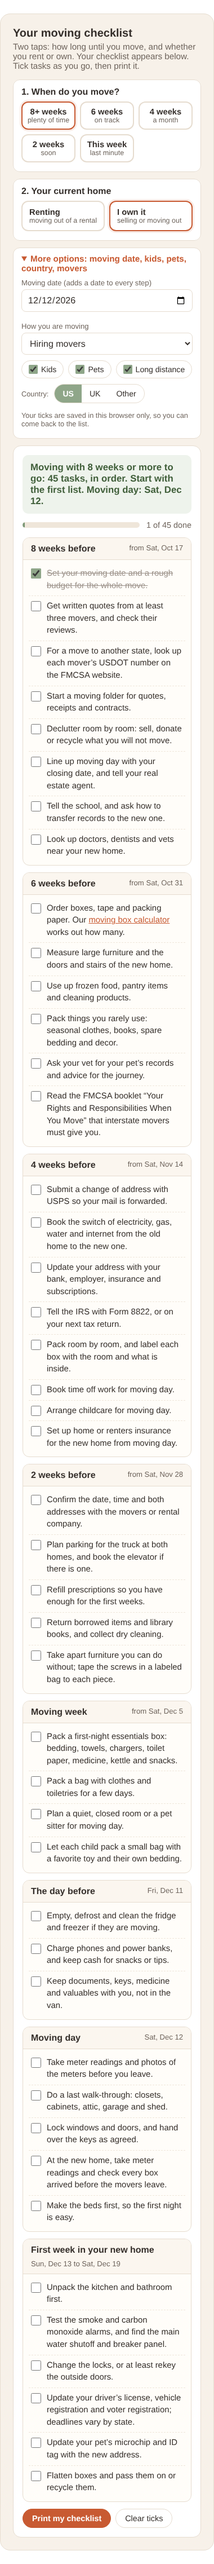
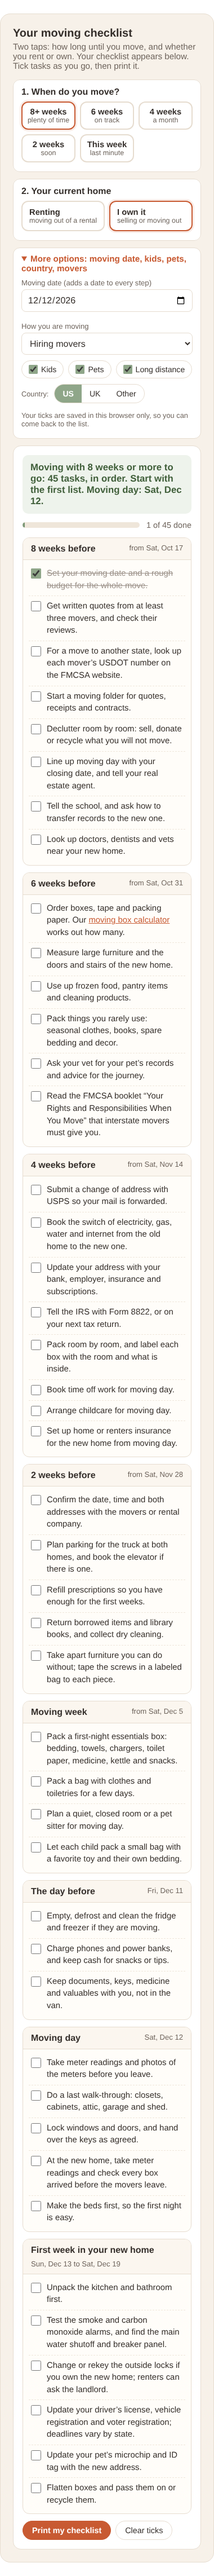
Moving checklist images + embed entry
Claude-Session: https://claude.ai/code/session_01NA5LVV4VZ27gRjP7KysXbg

Changed region(s): [[0.0868, 0.0312, 0.8974, 0.9681]]

diff --git a/tools/embed/out/page-moving-checklist.html b/tools/embed/out/page-moving-checklist.html
@@ -1,0 +1,200 @@
+<!-- wp:html -->
+<style>
+body.dsh-embed{background:#fff!important}
+body.dsh-embed .site-header,body.dsh-embed .site-footer,body.dsh-embed .entry-header,body.dsh-embed .entry-footer,body.dsh-embed .comments-area,body.dsh-embed #kt-scroll-up,body.dsh-embed .kadence-scroll-up,body.dsh-embed .post-navigation{display:none!important}
+body.dsh-embed .content-container,body.dsh-embed .site-container,body.dsh-embed .content-area,body.dsh-embed .content-wrap,body.dsh-embed .entry-content-wrap,body.dsh-embed .site-main,body.dsh-embed article.entry{margin:0!important;padding:0!important;max-width:none!important;box-shadow:none!important;background:transparent!important;border:0!important}
+body.dsh-embed .entry-content{margin:0!important}
+body.dsh-embed .entry-content>*{max-width:none!important}
+body.dsh-embed .dsh-calc{margin:0!important}
+body.dsh-embed .dsh-calc .viz svg{max-height:340px}
+.dsh-ef{display:flex;flex-wrap:wrap;justify-content:space-between;gap:6px 12px;align-items:center;font-size:13px;color:#6E645C;padding:8px 4px 2px;line-height:1.4}
+.dsh-ef a{color:#C85A32;font-weight:700;text-decoration:none}
+.dsh-ef a:hover{text-decoration:underline}
+</style>
+<div id="dsh-ew">
+<div id="dsh-mc" class="dsh-calc">
+<style>
+.dsh-calc{--bg:#F7F1E9;--card:#fff;--ink:#342E2A;--mut:#6E645C;--ac:#C85A32;--sg:#8FA689;--sgl:#EEF3EC;--bd:#E6DCCF;font-family:inherit;color:var(--ink);background:var(--bg);border:1px solid var(--bd);border-radius:18px;padding:22px;margin:1.5em 0}
+.dsh-calc *{box-sizing:border-box}
+.dsh-calc h3{margin:0 0 4px;font-size:1.25rem}
+.dsh-calc .sub{margin:0 0 16px;color:var(--mut);font-size:.95rem}
+.dsh-calc .row{display:flex;flex-wrap:wrap;gap:10px;margin-bottom:14px;align-items:center}
+.dsh-calc .seg{display:inline-flex;border:1px solid var(--bd);border-radius:999px;overflow:hidden;background:var(--card)}
+.dsh-calc .seg button{border:0;background:transparent;padding:8px 14px;font:inherit;font-size:.88rem;cursor:pointer;color:var(--ink)}
+.dsh-calc .seg button.on{background:var(--sg);color:#fff;font-weight:600}
+.dsh-calc .opts{display:grid;grid-template-columns:repeat(auto-fit,minmax(120px,1fr));gap:8px;margin:0 0 10px}
+.dsh-calc .opts.hts{grid-template-columns:repeat(auto-fit,minmax(92px,1fr))}
+.dsh-calc .opts.hts button{text-align:center;padding:8px 6px}
+.dsh-calc .opts button{background:var(--card);border:2px solid var(--bd);border-radius:12px;padding:10px 12px;text-align:left;font:inherit;cursor:pointer;color:var(--ink)}
+.dsh-calc .opts button b{display:block;font-size:.92rem}
+.dsh-calc .opts button span{font-size:.78rem;color:var(--mut)}
+.dsh-calc .opts button.on{border-color:var(--ac);box-shadow:0 0 0 3px rgba(200,90,50,.12)}
+.dsh-calc fieldset{border:1px solid var(--bd);border-radius:12px;background:var(--card);padding:12px 14px 6px;margin:0 0 12px}
+.dsh-calc legend{float:left;width:100%;font-weight:700;font-size:1rem;padding:0;margin:0 0 8px}
+.dsh-calc legend+*{clear:both}
+.dsh-calc .grid{display:grid;grid-template-columns:repeat(auto-fit,minmax(170px,1fr));gap:10px}
+.dsh-calc label{display:block;font-size:.82rem;color:var(--mut);margin-bottom:8px}
+.dsh-calc input[type=date],.dsh-calc select{display:block;width:100%;margin-top:4px;padding:9px 10px;font:inherit;font-size:1rem;border:1px solid var(--bd);border-radius:8px;background:#fff;color:var(--ink)}
+.dsh-calc .ck{display:flex;flex-wrap:wrap;gap:8px;margin:2px 0 10px}
+.dsh-calc .ck label{display:inline-flex;align-items:center;gap:6px;margin:0;padding:7px 12px;border:1px solid var(--bd);border-radius:999px;background:#fff;color:var(--ink);font-size:.88rem;cursor:pointer}
+.dsh-calc .ck input{accent-color:#8FA689;width:16px;height:16px;margin:0}
+.dsh-calc .hint{font-size:.8rem;color:var(--mut);margin:0 0 8px}
+.dsh-calc details.more{border:1px solid var(--bd);border-radius:12px;background:var(--card);padding:10px 14px;margin:0 0 12px}
+.dsh-calc details.more summary{cursor:pointer;font-weight:600;font-size:.95rem;color:var(--ac)}
+.dsh-calc details.more[open] summary{margin-bottom:10px}
+.dsh-calc .res{background:var(--card);border:1px solid var(--bd);border-radius:14px;padding:16px;margin-top:6px}
+.dsh-calc .verdict{font-size:1.05rem;font-weight:700;padding:12px 14px;border-radius:10px;margin-bottom:12px;background:var(--sgl);color:#3F5E39}
+.dsh-calc .prog{display:flex;align-items:center;gap:12px;margin:0 0 14px;font-size:.9rem;color:var(--mut)}
+.dsh-calc .bar{flex:1;height:10px;border-radius:99px;background:#EFE6DA;overflow:hidden}
+.dsh-calc .bar i{display:block;height:100%;width:0;background:linear-gradient(90deg,#8FA689,#6F8F69);border-radius:99px;transition:width .3s}
+.dsh-calc .stg{border:1px solid var(--bd);border-radius:12px;margin:0 0 12px;overflow:hidden;background:#FFFDF9}
+.dsh-calc .stg h4{margin:0;padding:10px 14px;font-size:1rem;background:#FBF6EF;border-bottom:1px solid var(--bd);display:flex;justify-content:space-between;gap:8px;flex-wrap:wrap}
+.dsh-calc .stg h4 small{font-weight:400;color:var(--mut);font-size:.82rem}
+.dsh-calc .stg.now h4{background:#FFF1EA;color:#9A3F1F}
+.dsh-calc .stg ul{list-style:none;margin:0;padding:6px 10px}
+.dsh-calc .stg li{margin:0;padding:0}
+.dsh-calc .stg li label{display:flex;gap:10px;align-items:flex-start;margin:0;padding:7px 4px;font-size:.93rem;color:var(--ink);cursor:pointer;line-height:1.45;border-bottom:1px dashed #EFE6DA}
+.dsh-calc .stg li:last-child label{border-bottom:0}
+.dsh-calc .stg li input{flex:0 0 auto;width:18px;height:18px;margin:2px 0 0;accent-color:#8FA689}
+.dsh-calc .stg li.done span{color:#9A9088;text-decoration:line-through}
+.dsh-calc .stg li a{color:var(--ac)}
+.dsh-calc .acts{display:flex;flex-wrap:wrap;gap:8px;margin-top:12px}
+.dsh-calc .acts button,.dsh-calc .acts a{border:1px solid var(--bd);background:#fff;border-radius:999px;padding:8px 16px;font:inherit;font-size:.9rem;cursor:pointer;color:var(--ink);text-decoration:none}
+.dsh-calc .acts .pri{background:var(--ac);border-color:var(--ac);color:#fff;font-weight:600}
+@media print{body *{visibility:hidden}#dsh-mc,#dsh-mc *{visibility:visible}#dsh-mc{position:absolute;left:0;top:0;width:100%;border:0;background:#fff;padding:0;margin:0}#dsh-mc .np{display:none!important}#dsh-mc .stg{break-inside:avoid}#dsh-mc .res{border:0;padding:0}}
+</style>
+<h3>Your moving checklist</h3>
+<p class="sub np">Two taps: how long until you move, and whether you rent or own. Your checklist appears below. Tick tasks as you go, then print it.</p>
+<fieldset class="np"><legend>1. When do you move?</legend>
+<div class="opts hts" role="group" aria-label="Time until moving day">
+<button type="button" data-t="8" class="on"><b>8+ weeks</b><span>plenty of time</span></button>
+<button type="button" data-t="6"><b>6 weeks</b><span>on track</span></button>
+<button type="button" data-t="4"><b>4 weeks</b><span>a month</span></button>
+<button type="button" data-t="2"><b>2 weeks</b><span>soon</span></button>
+<button type="button" data-t="1"><b>This week</b><span>last minute</span></button>
+</div>
+</fieldset>
+<fieldset class="np"><legend>2. Your current home</legend>
+<div class="opts" role="group" aria-label="Home">
+<button type="button" data-h="r" class="on"><b>Renting</b><span>moving out of a rental</span></button>
+<button type="button" data-h="o"><b>I own it</b><span>selling or moving out</span></button>
+</div>
+</fieldset>
+<details class="more np"><summary>More options: moving date, kids, pets, country, movers</summary>
+<div class="grid">
+<label><span>Moving date (adds a date to every step)</span><input type="date" id="md"></label>
+<label><span>How you are moving</span><select id="mv"><option value="m" selected>Hiring movers</option><option value="v">Renting a van or truck</option><option value="v2">Friends and our own car</option></select></label>
+</div>
+<div class="ck"><label><input type="checkbox" id="ok"> Kids</label><label><input type="checkbox" id="op"> Pets</label><label><input type="checkbox" id="of"> Long distance</label></div>
+<div class="row"><span class="hint" style="margin:0">Country:</span><div class="seg" role="group" aria-label="Country"><button type="button" data-c="us">US</button><button type="button" data-c="uk">UK</button><button type="button" data-c="ot">Other</button></div></div>
+<p class="hint">Your ticks are saved in this browser only, so you can come back to the list.</p>
+</details>
+<div class="res" aria-live="polite">
+<div id="vv" class="verdict"></div>
+<div class="prog"><div class="bar"><i id="pb"></i></div><span id="pt"></span></div>
+<div id="ls"></div>
+<div class="acts np"><button type="button" id="pr" class="pri">Print my checklist</button><a id="pdf" href="#" target="_blank" rel="noopener">Download the PDF</a><button type="button" id="cl">Clear ticks</button></div>
+</div>
+<script>
+(function(){
+var R=document.getElementById('dsh-mc');if(!R)return;
+var PDF='https://dailyspacehacks.com/wp-content/uploads/2026/10/moving-checklist-printable.pdf';
+var t=8,h='r',ct='us',done={};
+try{done=JSON.parse(localStorage.getItem('dshMoveDone')||'{}')||{}}catch(e){done={}}
+var ST=[['s8','8 weeks before',-56],['s6','6 weeks before',-42],['s4','4 weeks before',-28],['s2','2 weeks before',-14],['s1','Moving week',-7],['d1','The day before',-1],['d0','Moving day',0],['a1','First week in your new home',1]];
+var W={s8:8,s6:6,s4:4,s2:2};
+var T=[
+['a','s8','','Set your moving date and a rough budget for the whole move.'],
+['b','s8','m','Get written quotes from at least three movers, and check their reviews.'],
+['c','s8','mf',{us:'For a move to another state, look up each mover’s USDOT number on the FMCSA website.',uk:'Check that the removal firm has insurance for your belongings in transit.',ot:'Check that the movers are licensed and insured.'}],
+['d','s8','v','Book the van or truck, and ask friends to keep the day free.'],
+['e','s8','','Start a moving folder for quotes, receipts and contracts.'],
+['f','s8','x','Declutter room by room: sell, donate or recycle what you will not move.'],
+['g','s8','r','Read your lease for the notice period and deposit rules, then give notice in writing.'],
+['h','s8','o',{us:'Line up moving day with your closing date, and tell your real estate agent.',uk:'Line up moving day with your completion date, and tell your solicitor or conveyancer.',ot:'Line up moving day with the sale or handover date.'}],
+['i','s8','k','Tell the school, and ask how to transfer records to the new one.'],
+['j','s8','f','Look up doctors, dentists and vets near your new home.'],
+['k','s6','','Order boxes, tape and packing paper. Our <a href="https://dailyspacehacks.com/moving-box-calculator/">moving box calculator</a> works out how many.'],
+['l','s6','','Measure large furniture and the doors and stairs of the new home.'],
+['m','s6','x','Use up frozen food, pantry items and cleaning products.'],
+['n','s6','','Pack things you rarely use: seasonal clothes, books, spare bedding and decor.'],
+['o','s6','p','Ask your vet for your pet’s records and advice for the journey.'],
+['p','s6','mf',{us:'Read the FMCSA booklet “Your Rights and Responsibilities When You Move” that interstate movers must give you.'}],
+['q','s4','',{us:'Submit a change of address with USPS so your mail is forwarded.',uk:'Set up Royal Mail Redirection so your post follows you.',ot:'Set up mail forwarding with your postal service.'}],
+['r','s4','','Book the switch of electricity, gas, water and internet from the old home to the new one.'],
+['s','s4','','Update your address with your bank, employer, insurance and subscriptions.'],
+['t','s4','',{us:'Tell the IRS with Form 8822, or on your next tax return.',uk:'Tell your council you are moving, for council tax, and contact the new council once you move in.'}],
+['u','s4','','Pack room by room, and label each box with the room and what is inside.'],
+['v','s4','','Book time off work for moving day.'],
+['w','s4','k','Arrange childcare for moving day.'],
+['x','s4','',{us:'Set up home or renters insurance for the new home from moving day.',uk:'Set up contents insurance for the new home from moving day.',ot:'Set up insurance for the new home from moving day.'}],
+['y','s2','','Confirm the date, time and both addresses with the movers or rental company.'],
+['z','s2','',{us:'Plan parking for the truck at both homes, and book the elevator if there is one.',uk:'Plan parking for the van at both homes; some councils need a parking suspension.',ot:'Plan parking for the van or truck at both homes.'}],
+['A','s2','','Refill prescriptions so you have enough for the first weeks.'],
+['B','s2','x','Return borrowed items and library books, and collect dry cleaning.'],
+['C','s2','','Take apart furniture you can do without; tape the screws in a labeled bag to each piece.'],
+['D','s1','','Pack a first-night essentials box: bedding, towels, chargers, toilet paper, medicine, kettle and snacks.'],
+['E','s1','','Pack a bag with clothes and toiletries for a few days.'],
+['F','s1','r','Clean as you go, or book an end-of-tenancy clean, so you get your deposit back.'],
+['G','s1','p','Plan a quiet, closed room or a pet sitter for moving day.'],
+['H','s1','k','Let each child pack a small bag with a favorite toy and their own bedding.'],
+['I','d1','','Empty, defrost and clean the fridge and freezer if they are moving.'],
+['J','d1','','Charge phones and power banks, and keep cash for snacks or tips.'],
+['K','d1','','Keep documents, keys, medicine and valuables with you, not in the van.'],
+['L','d0','','Take meter readings and photos of the meters before you leave.'],
+['M','d0','r','Photograph every room after cleaning, as proof for your deposit.'],
+['N','d0','',{us:'Do a last walk-through: closets, cabinets, attic, garage and shed.',uk:'Do a last walk-through: cupboards, loft, garage and shed.',ot:'Do a last walk-through: cupboards, attic, garage and shed.'}],
+['O','d0','','Lock windows and doors, and hand over the keys as agreed.'],
+['P','d0','','At the new home, take meter readings and check every box arrived before the movers leave.'],
+['Q','d0','','Make the beds first, so the first night is easy.'],
+['R','a1','','Unpack the kitchen and bathroom first.'],
+['S','a1','',{us:'Test the smoke and carbon monoxide alarms, and find the main water shutoff and breaker panel.',uk:'Test the smoke and carbon monoxide alarms, and find the stopcock and fuse box.',ot:'Test the smoke alarms, and find the main water valve and fuse box.'}],
+['U','a1','','Change or rekey the outside locks if you own the new home; renters can ask the landlord.'],
+['V','a1','',{us:'Update your driver’s license, vehicle registration and voter registration; deadlines vary by state.',uk:'Update your driving licence with DVLA (it is free), tell HMRC, register to vote and sign up with a local GP.',ot:'Update your driving licence and register to vote at the new address.'}],
+['W','a1','p','Update your pet’s microchip and ID tag with the new address.'],
+['X','a1','r','Chase your deposit if it has not come back.'],
+['Y','a1','x','Flatten boxes and pass them on or recycle them.']];
+function $(i){return document.getElementById(i)}
+function ok(tags){var mv=$('mv').value;for(var i=0;i<tags.length;i++){var g=tags.charAt(i);
+if(g==='r'?h!=='r':false)return false;if(g==='o'?h!=='o':false)return false;
+if(g==='k'?!$('ok').checked:false)return false;if(g==='p'?!$('op').checked:false)return false;
+if(g==='f'?!$('of').checked:false)return false;if(g==='m'?mv!=='m':false)return false;if(g==='v'?mv==='m':false)return false}return true}
+function txt(x){if(typeof x==='string')return x;return x[ct]||''}
+function mdate(){var v=$('md').value;if(!v)return null;var p=v.split('-');return new Date(+p[0],+p[1]-1,+p[2])}
+function fd(d){try{return d.toLocaleDateString(ct==='us'?'en-US':'en-GB',{weekday:'short',day:'numeric',month:'short'})}catch(e){return d.toDateString()}}
+function addD(d,n){var x=new Date(d.getTime());x.setDate(x.getDate()+n);return x}
+function snap(){var d=mdate();if(!d)return;var now=new Date();now.setHours(0,0,0,0);var w=(d-now)/864e5/7;t=w>=8?8:(w>=6?6:(w>=4?4:(w>=2?2:1)));R.querySelectorAll('[data-t]').forEach(function(x){x.classList.toggle('on',+x.getAttribute('data-t')===t)})}
+function render(){var d=mdate(),groups=[],late=[],total=0,n=0;
+ST.forEach(function(s){var items=[];T.forEach(function(k){if(k[1]!==s[0])return;if(!ok(k[2]))return;var x=txt(k[3]);if(!x)return;items.push([k[0],x,k[2].indexOf('x')>-1])});
+var isLate=W[s[0]]?W[s[0]]>t:false;
+if(isLate){items.forEach(function(it){if(!it[2])late.push(it)})}else{groups.push([s,items])}});
+var html='';
+function block(title,note,items,cls){if(!items.length)return '';var s='<div class="stg'+(cls?' '+cls:'')+'"><h4><span>'+title+'</span><small>'+note+'</small></h4><ul>';items.forEach(function(it){total++;var on=done[it[0]]?1:0;if(on)n++;s+='<li'+(on?' class="done"':'')+'><label><input type="checkbox" data-id="'+it[0]+'"'+(on?' checked':'')+'><span>'+it[1]+'</span></label></li>'});return s+'</ul></div>'}
+if(late.length){html+=block('Start now: catch up',(d?fd(new Date())+' onward':'this week'),late,'now')}
+groups.forEach(function(g){var s=g[0],note='';if(d){if(s[0]==='a1'){note=fd(addD(d,1))+' to '+fd(addD(d,7))}else if(s[0]==='d0'||s[0]==='d1'){note=fd(addD(d,s[2]))}else{note='from '+fd(addD(d,s[2]))}}else{note=g[1].length+' tasks'}html+=block(s[1],note,g[1])});
+$('ls').innerHTML=html;
+var mv={8:'with 8 weeks or more to go',6:'with about 6 weeks to go',4:'with about 4 weeks to go',2:'with about 2 weeks to go',1:'this week'}[t];
+$('vv').textContent=(late.length?'Moving '+mv+': start with the '+late.length+' catch-up tasks at the top, then follow the list.':'Moving '+mv+': '+total+' tasks, in order. Start with the first list.')+(d?' Moving day: '+fd(d)+'.':'');
+prog();
+R.querySelectorAll('[data-id]').forEach(function(c){c.addEventListener('change',function(){var id=c.getAttribute('data-id');if(c.checked){done[id]=1}else{delete done[id]}c.parentNode.parentNode.classList.toggle('done',c.checked);save();prog()})})}
+function prog(){var all=R.querySelectorAll('[data-id]'),k=0;all.forEach(function(c){if(c.checked)k++});$('pb').style.width=(all.length?Math.round(k*100/all.length):0)+'%';$('pt').textContent=k+' of '+all.length+' done'}
+function save(){try{localStorage.setItem('dshMoveDone',JSON.stringify(done))}catch(e){}}
+R.querySelectorAll('[data-t]').forEach(function(x){x.addEventListener('click',function(){t=+x.getAttribute('data-t');R.querySelectorAll('[data-t]').forEach(function(y){y.classList.toggle('on',y===x)});render()})});
+R.querySelectorAll('[data-h]').forEach(function(x){x.addEventListener('click',function(){h=x.getAttribute('data-h');R.querySelectorAll('[data-h]').forEach(function(y){y.classList.toggle('on',y===x)});render()})});
+R.querySelectorAll('[data-c]').forEach(function(x){x.addEventListener('click',function(){ct=x.getAttribute('data-c');R.querySelectorAll('[data-c]').forEach(function(y){y.classList.toggle('on',y===x)});render()})});
+$('md').addEventListener('change',function(){snap();render()});
+['mv','ok','op','of'].forEach(function(i){$(i).addEventListener('change',render)});
+$('pr').addEventListener('click',function(){window.print()});
+$('cl').addEventListener('click',function(){done={};save();render()});
+var a=$('pdf');if(PDF){a.href=PDF}else{a.style.display='none'}
+var lang=(navigator.language||'en-US');
+ct=(lang.indexOf('en-GB')===0||lang.indexOf('en-IE')===0)?'uk':((lang==='en'||lang.indexOf('en-US')===0)?'us':'ot');
+R.querySelectorAll('[data-c]').forEach(function(y){y.classList.toggle('on',y.getAttribute('data-c')===ct)});
+render();
+})();
+</script>
+</div>
+<div class="dsh-ef"><span>Free tool by <a href="https://dailyspacehacks.com/?utm_source=embed&amp;utm_medium=referral" target="_blank" rel="noopener">Daily Space Hacks</a></span><a href="https://dailyspacehacks.com/moving-checklist-printable/?utm_source=embed&amp;utm_medium=referral" target="_blank" rel="noopener">Full guide and charts &rarr;</a></div>
+</div>
+<script>(function(){var w=document.getElementById('dsh-ew'),last=0;function s(){if(!w)return;var h=Math.ceil(w.getBoundingClientRect().height)+4;if(h!==last){last=h;try{parent.postMessage({dshEmbed:1,h:h},'*')}catch(e){}}}if(window.ResizeObserver){new ResizeObserver(s).observe(w)}window.addEventListener('load',s);setInterval(s,1000);s()})();</script>
+<!-- /wp:html -->

diff --git a/tools/embed/out/hub.html b/tools/embed/out/hub.html
@@ -27,6 +27,20 @@
 <!-- /wp:heading -->
 
 <!-- wp:heading {"level":3} -->
+<h3 class="wp-block-heading">Printable Moving Checklist</h3>
+<!-- /wp:heading -->
+
+<!-- wp:paragraph -->
+<p>A week-by-week moving checklist that readers can tick off and print. <a href="https://dailyspacehacks.com/moving-checklist-printable/">Try the printable moving checklist</a>.</p>
+<!-- /wp:paragraph -->
+
+<!-- wp:html -->
+<div class="dsh-emb"><details><summary><span class="eic" aria-hidden="true">&lt;/&gt;</span><span class="etx"><b>Embed this checklist</b><small>Free for your blog or website</small></span><span class="ech" aria-hidden="true"></span></summary><div class="ebd"><p>Copy the code and paste it into an HTML block on your site. It is free to use; please keep the credit link under the checklist.</p><pre><code>&lt;iframe class="dsh-embed" src="https://dailyspacehacks.com/embed-calculators/moving-checklist/" title="Printable Moving Checklist" width="100%" height="2400" style="border:0;width:100%;max-width:760px;display:block" loading="lazy"&gt;&lt;/iframe&gt;
+&lt;p style="font-size:13px;margin:6px 0 0"&gt;&lt;a href="https://dailyspacehacks.com/moving-checklist-printable/"&gt;Printable Moving Checklist&lt;/a&gt; by Daily Space Hacks&lt;/p&gt;
+&lt;script&gt;window.addEventListener('message',function(e){if(e.origin!=='https://dailyspacehacks.com'||!e.data||!e.data.dshEmbed)return;document.querySelectorAll('iframe.dsh-embed').forEach(function(f){if(f.contentWindow===e.source)f.style.height=e.data.h+'px'})});&lt;/script&gt;</code></pre><div class="eac"><button type="button" class="ecp" onclick="var c=this.parentNode.parentNode.querySelector('code'),b=this,d=function(){b.textContent='Copied';b.classList.add('ok');setTimeout(function(){b.textContent='Copy code';b.classList.remove('ok')},2200)};if(navigator.clipboard){navigator.clipboard.writeText(c.textContent).then(d)}else{var r=document.createRange();r.selectNodeContents(c);var w=getSelection();w.removeAllRanges();w.addRange(r);document.execCommand('copy');d()}">Copy code</button><a class="epv" href="https://dailyspacehacks.com/embed-calculators/moving-checklist/" target="_blank" rel="noopener nofollow">Preview</a></div></div></details></div>
+<!-- /wp:html -->
+
+<!-- wp:heading {"level":3} -->
 <h3 class="wp-block-heading">Dining Table Size Calculator</h3>
 <!-- /wp:heading -->
 

diff --git a/tools/embed/out/btn-moving-checklist.html b/tools/embed/out/btn-moving-checklist.html
@@ -1,0 +1,5 @@
+<!-- wp:html -->
+<div class="dsh-emb"><details><summary><span class="eic" aria-hidden="true">&lt;/&gt;</span><span class="etx"><b>Embed this checklist</b><small>Free for your blog or website</small></span><span class="ech" aria-hidden="true"></span></summary><div class="ebd"><p>Copy the code and paste it into an HTML block on your site. It is free to use; please keep the credit link under the checklist.</p><pre><code>&lt;iframe class="dsh-embed" src="https://dailyspacehacks.com/embed-calculators/moving-checklist/" title="Printable Moving Checklist" width="100%" height="2400" style="border:0;width:100%;max-width:760px;display:block" loading="lazy"&gt;&lt;/iframe&gt;
+&lt;p style="font-size:13px;margin:6px 0 0"&gt;&lt;a href="https://dailyspacehacks.com/moving-checklist-printable/"&gt;Printable Moving Checklist&lt;/a&gt; by Daily Space Hacks&lt;/p&gt;
+&lt;script&gt;window.addEventListener('message',function(e){if(e.origin!=='https://dailyspacehacks.com'||!e.data||!e.data.dshEmbed)return;document.querySelectorAll('iframe.dsh-embed').forEach(function(f){if(f.contentWindow===e.source)f.style.height=e.data.h+'px'})});&lt;/script&gt;</code></pre><div class="eac"><button type="button" class="ecp" onclick="var c=this.parentNode.parentNode.querySelector('code'),b=this,d=function(){b.textContent='Copied';b.classList.add('ok');setTimeout(function(){b.textContent='Copy code';b.classList.remove('ok')},2200)};if(navigator.clipboard){navigator.clipboard.writeText(c.textContent).then(d)}else{var r=document.createRange();r.selectNodeContents(c);var w=getSelection();w.removeAllRanges();w.addRange(r);document.execCommand('copy');d()}">Copy code</button><a class="epv" href="https://dailyspacehacks.com/embed-calculators/moving-checklist/" target="_blank" rel="noopener nofollow">Preview</a><a class="eal" href="https://dailyspacehacks.com/embed-calculators/">All free calculators to embed</a></div></div></details></div>
+<!-- /wp:html -->

diff --git a/tools/embed/out/hubbtn-moving-checklist.html b/tools/embed/out/hubbtn-moving-checklist.html
@@ -1,0 +1,3 @@
+<div class="dsh-emb"><details><summary><span class="eic" aria-hidden="true">&lt;/&gt;</span><span class="etx"><b>Embed this checklist</b><small>Free for your blog or website</small></span><span class="ech" aria-hidden="true"></span></summary><div class="ebd"><p>Copy the code and paste it into an HTML block on your site. It is free to use; please keep the credit link under the checklist.</p><pre><code>&lt;iframe class="dsh-embed" src="https://dailyspacehacks.com/embed-calculators/moving-checklist/" title="Printable Moving Checklist" width="100%" height="2400" style="border:0;width:100%;max-width:760px;display:block" loading="lazy"&gt;&lt;/iframe&gt;
+&lt;p style="font-size:13px;margin:6px 0 0"&gt;&lt;a href="https://dailyspacehacks.com/moving-checklist-printable/"&gt;Printable Moving Checklist&lt;/a&gt; by Daily Space Hacks&lt;/p&gt;
+&lt;script&gt;window.addEventListener('message',function(e){if(e.origin!=='https://dailyspacehacks.com'||!e.data||!e.data.dshEmbed)return;document.querySelectorAll('iframe.dsh-embed').forEach(function(f){if(f.contentWindow===e.source)f.style.height=e.data.h+'px'})});&lt;/script&gt;</code></pre><div class="eac"><button type="button" class="ecp" onclick="var c=this.parentNode.parentNode.querySelector('code'),b=this,d=function(){b.textContent='Copied';b.classList.add('ok');setTimeout(function(){b.textContent='Copy code';b.classList.remove('ok')},2200)};if(navigator.clipboard){navigator.clipboard.writeText(c.textContent).then(d)}else{var r=document.createRange();r.selectNodeContents(c);var w=getSelection();w.removeAllRanges();w.addRange(r);document.execCommand('copy');d()}">Copy code</button><a class="epv" href="https://dailyspacehacks.com/embed-calculators/moving-checklist/" target="_blank" rel="noopener nofollow">Preview</a></div></div></details></div>

diff --git a/tools/moving-checklist/tool.html b/tools/moving-checklist/tool.html
@@ -84,7 +84,7 @@
 <script>
 (function(){
 var R=document.getElementById('dsh-mc');if(!R)return;
-var PDF='';
+var PDF='https://dailyspacehacks.com/wp-content/uploads/2026/10/moving-checklist-printable.pdf';
 var t=8,h='r',ct='us',done={};
 try{done=JSON.parse(localStorage.getItem('dshMoveDone')||'{}')||{}}catch(e){done={}}
 var ST=[['s8','8 weeks before',-56],['s6','6 weeks before',-42],['s4','4 weeks before',-28],['s2','2 weeks before',-14],['s1','Moving week',-7],['d1','The day before',-1],['d0','Moving day',0],['a1','First week in your new home',1]];

diff --git a/tools/embed/build.py b/tools/embed/build.py
@@ -2,6 +2,7 @@ import html, json, os
 S = 'https://dailyspacehacks.com/'
 # (main slug, page id, embed slug, title, short line, tool file, height)
 T = [
+ ('moving-checklist-printable', 0, 'moving-checklist', 'Printable Moving Checklist', 'A week-by-week moving checklist that readers can tick off and print.', '../moving-checklist/tool.html'),
  ('dining-table-size-calculator', 0, 'dining-table', 'Dining Table Size Calculator', 'The right dining table size for 2 to 12 people, and the room it needs.', '../dining-table/tool.html'),
  ('picture-hanging-height-calculator', 0, 'picture-height', 'Picture Hanging Height Calculator', 'How high to hang a picture, with the exact nail height.', '../picture-height/tool.html'),
  ('christmas-tree-lights-calculator', 2617, 'christmas-tree-lights', 'Christmas Tree Lights Calculator', 'How many lights, ornaments and garland a tree needs.', '../xmas-lights/tool.html'),
@@ -50,11 +51,12 @@ COPY = "var c=this.parentNode.parentNode.querySelector('code'),b=this,d=function
 
 def button(t, hub=False):
     main, pid, es, title, line, f = t
+    nn = 'checklist' if 'checklist' in main else 'calculator'
     code = html.escape(snippet(t), quote=False)
     extra = '' if hub else '<a class="eal" href="%sembed-calculators/">All free calculators to embed</a>' % S
     return ('<div class="dsh-emb"><details><summary><span class="eic" aria-hidden="true">&lt;/&gt;</span>'
-            '<span class="etx"><b>Embed this calculator</b><small>Free for your blog or website</small></span><span class="ech" aria-hidden="true"></span></summary>'
-            '<div class="ebd"><p>Copy the code and paste it into an HTML block on your site. It is free to use; please keep the credit link under the calculator.</p>'
+            '<span class="etx"><b>Embed this '+nn+'</b><small>Free for your blog or website</small></span><span class="ech" aria-hidden="true"></span></summary>'
+            '<div class="ebd"><p>Copy the code and paste it into an HTML block on your site. It is free to use; please keep the credit link under the '+nn+'.</p>'
             '<pre><code>%s</code></pre>'
             '<div class="eac"><button type="button" class="ecp" onclick="%s">Copy code</button>'
             '<a class="epv" href="%sembed-calculators/%s/" target="_blank" rel="noopener nofollow">Preview</a>%s</div></div></details></div>') % (code, COPY, S, es, extra)
